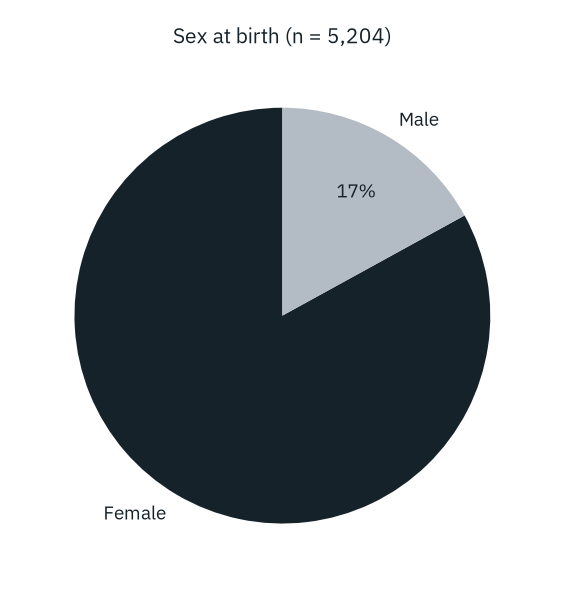
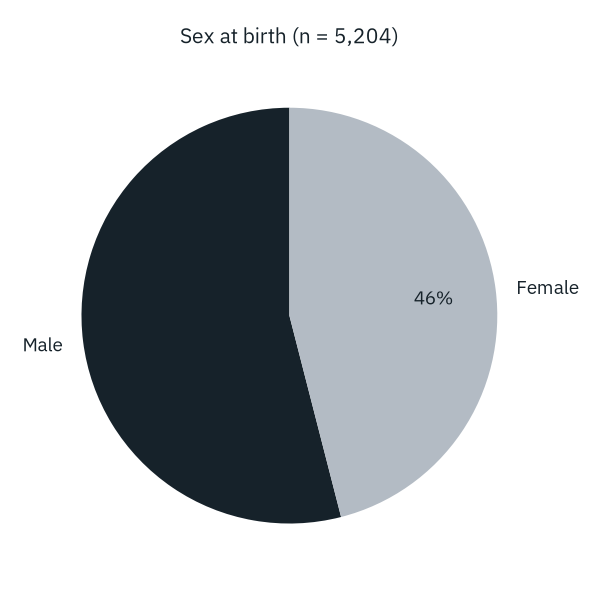
Editorial review: fix blocking, should-fix, and nice-to-have findings
Systemic
- Convert every numeric "Chapter N" and "(Chapter: X)" cross-reference to
  markdown links, so refs survive in HTML (invisible before) and stay correct
  in the PDF after chapter insertions. Standardised across Parts I-III, guide,
  and index.

Blocking factual
- 04: cohort is mostly male (2,829, 54%), not female; regenerate the sex
  overkill pie/bar (83/17 -> 54/46).
- 05: Krebs's 1937 paper is the citric-acid cycle, not the urea cycle.
- 06: cite CONSORT 2025 (hopewell2025consort) for the current guideline; keep
  schulz2010consort only where the 2010 version is named.
- 11/12: forest-plot alt (active arms right of the null) and dot-plot
  caption/alt (ACEi 47% highest ... Placebo 15% lowest) match the figures.

Should-fix
- 13: per-arm n and control percentages match the cohort (125/180/144/151;
  15/47/40/34%); "full opacity" not "crew-dark".
- prediction-models: state the 5,065 denominator after excluding 139 missing.
- statistical-writing: margin note flags the illustrative AUC 0.71 vs the
  fitted validation c-statistic 0.62 in prediction-models.
- Thin the open-science / reproducibility code-sharing overlap; "License" verb.
- Glossary: add nine Part II terms (alt text, CVD, data-to-ink, forest plot,
  Kaplan-Meier, Okabe-Ito, palette, small multiples, viridis); fix three
  alphabetisation slips (Impact/IMRAD, Missingness/Multiple imputation,
  renv/Reporting/Reproducibility). Normalise Kaplan-Meier to en-dash.

Nice-to-have
[…]

diff --git a/figures/generate.py b/figures/generate.py
@@ -227,7 +227,7 @@ with plt.rc_context(GLAUCA_RC):
 # ── sw/05-pie-overkill.png ────────────────────────────────────────────────────
 with plt.rc_context({**GLAUCA_RC, "axes.grid": False}):
     fig, ax = plt.subplots(figsize=(4.5, 4.5))
-    ax.pie([83, 17], labels=["Female", "Male"], colors=[INK, "#B3BBC4"],
+    ax.pie([54, 46], labels=["Male", "Female"], colors=[INK, "#B3BBC4"],
            autopct="%1.0f%%", startangle=90, textprops={"fontsize": 9}, pctdistance=0.7)
     ax.set_title("Sex at birth (n = 5,204)", fontsize=10)
     savefig(fig, SW_DIR / "05-pie-overkill.png", GLAUCA_RC)
@@ -235,7 +235,7 @@ with plt.rc_context({**GLAUCA_RC, "axes.grid": False}):
 # ── sw/06-bar-overkill.png ────────────────────────────────────────────────────
 with plt.rc_context(GLAUCA_RC):
     fig, ax = plt.subplots(figsize=(4.5, 4))
-    ax.bar(["Female", "Male"], [83, 17], color=[INK, "#B3BBC4"], edgecolor="none", width=0.5)
+    ax.bar(["Male", "Female"], [54, 46], color=[INK, "#B3BBC4"], edgecolor="none", width=0.5)
     ax.set_ylabel("Percentage (%)")
     ax.set_title("Sex at birth (n = 5,204)", fontsize=10)
     savefig(fig, SW_DIR / "06-bar-overkill.png", GLAUCA_RC)
